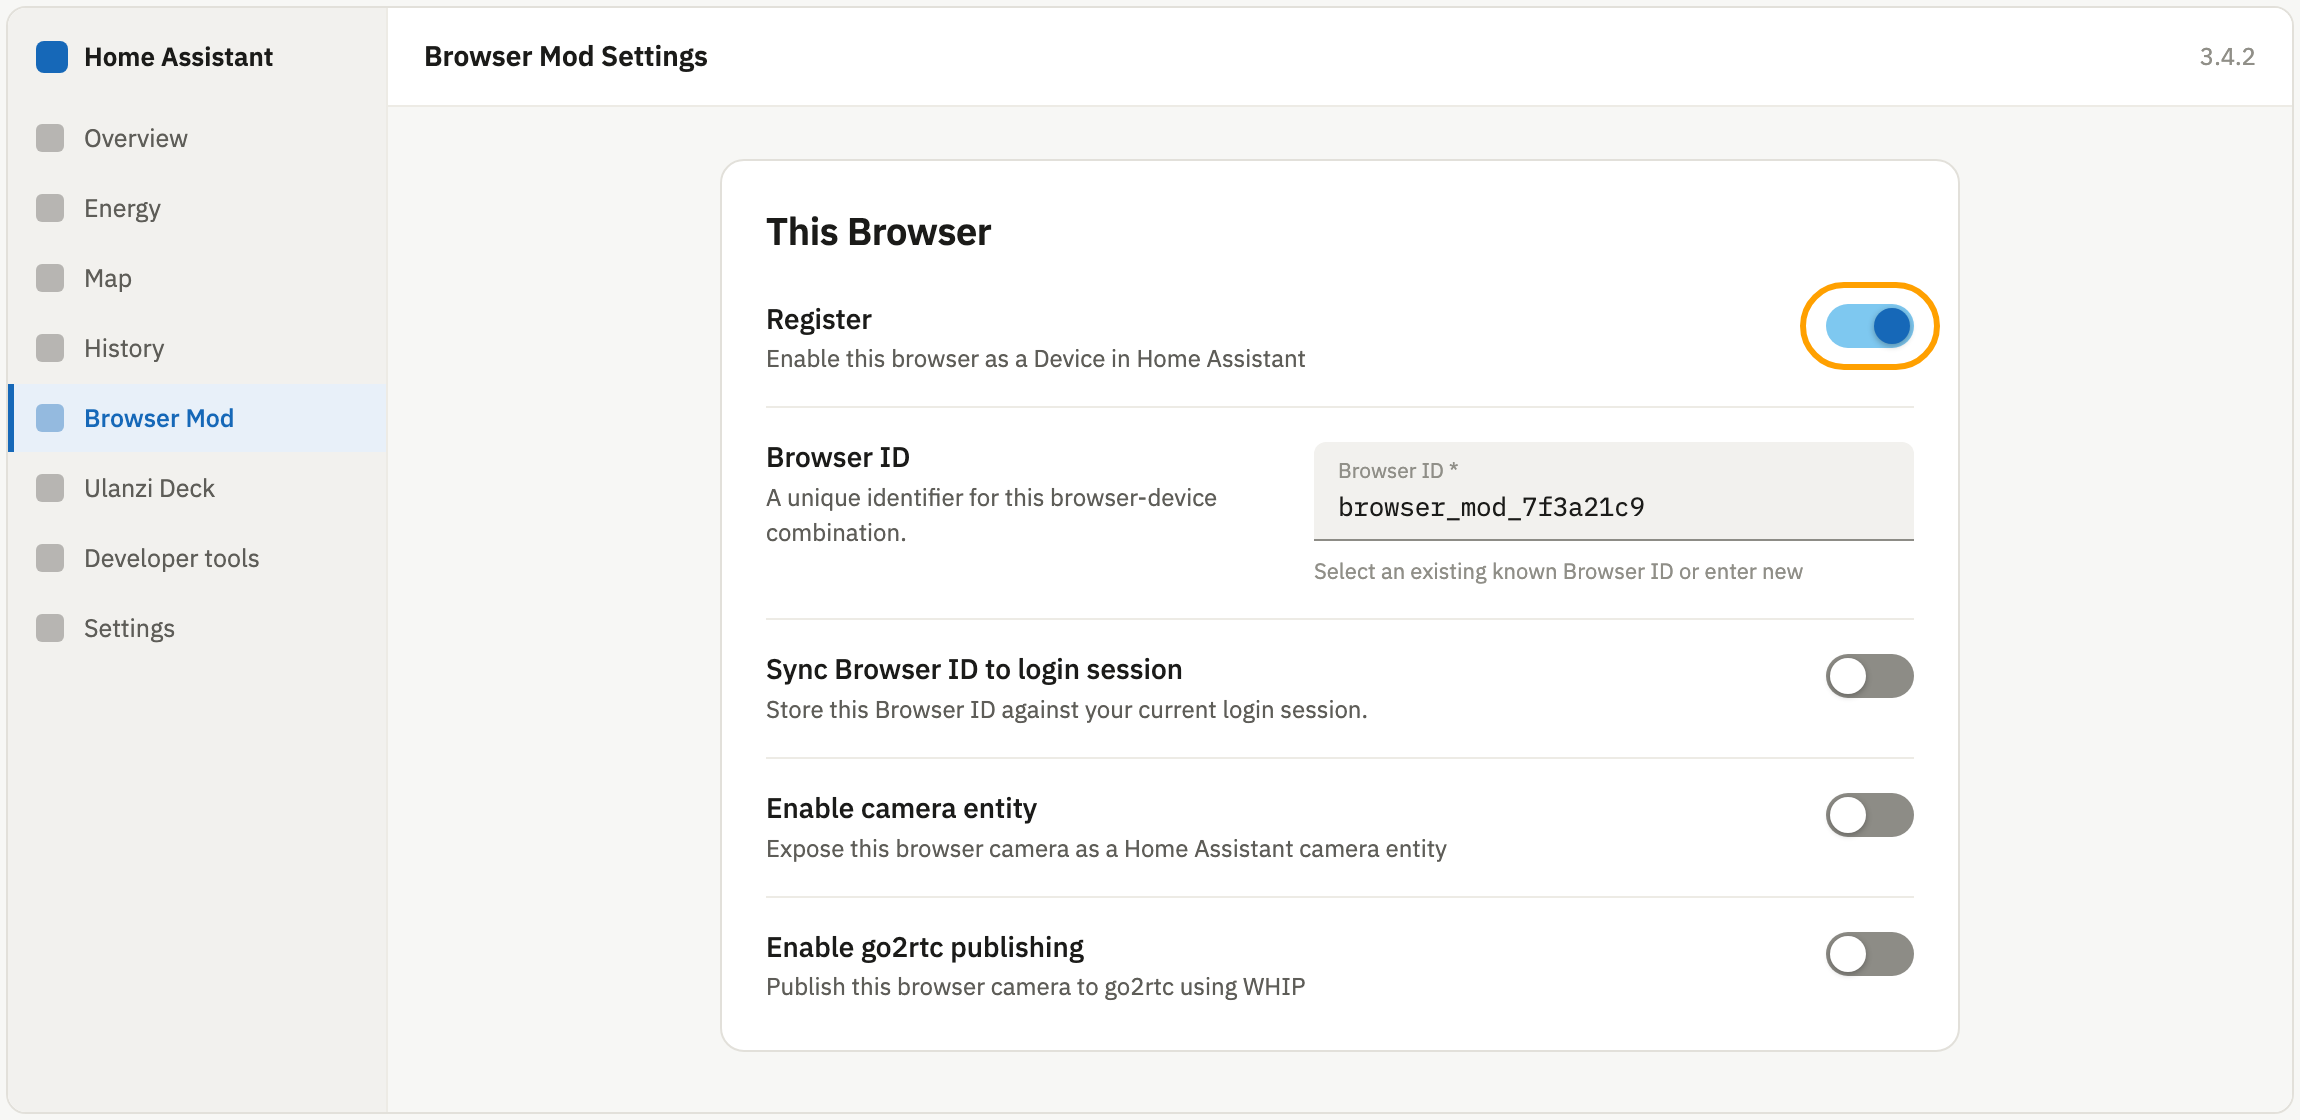
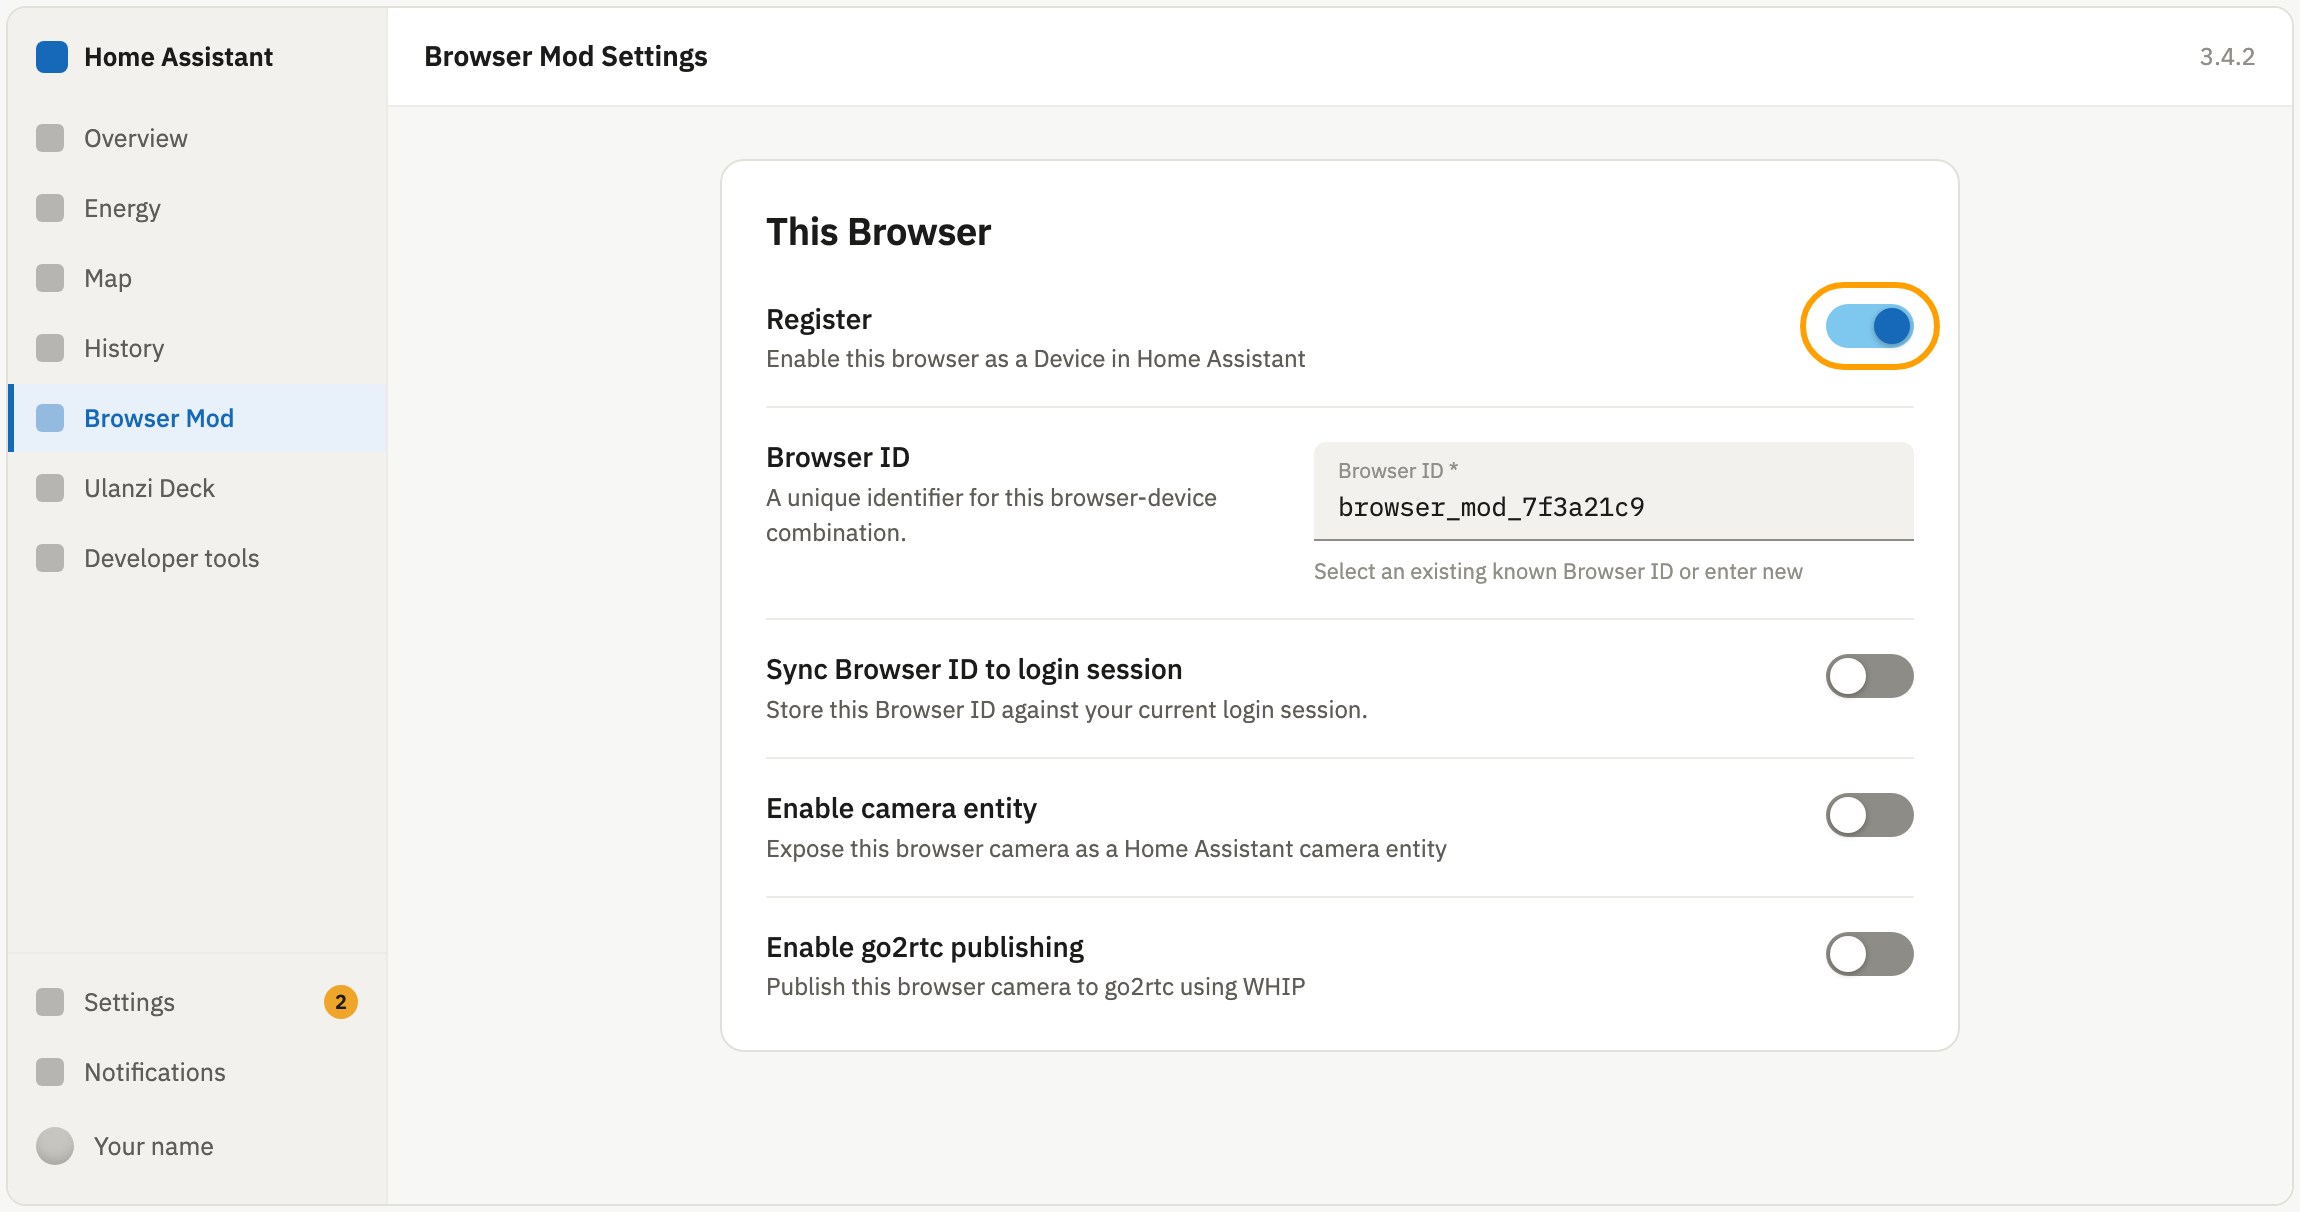
Draw the foot of the sidebar, which is the way in to step 2
Step 2 says to click your own name at the foot of the sidebar, and the
figure under it did not show that foot. The picture had no route into
the screen it was showing.

Both figures now draw the whole sidebar: Settings, Notifications and
your own name pinned at the bottom, with the name highlighted on the
profile figure because that is where you have just come from. The name
is drawn as "Your name" with a blank avatar, since a real one is a real
person.

Both are now the same height, so they sit consistently one after the
other in the guide.

diff --git a/tools/figures/index.html b/tools/figures/index.html
@@ -32,7 +32,8 @@ body{margin:0;background:var(--bg);color:var(--ink);font-family:var(--sans);line
 [hidden]{display:none!important}
 
 /* ---- the drawn Home Assistant, as docs/index.html draws it ---- */
-.ha{border:1px solid var(--line);border-radius:10px;overflow:hidden;background:var(--panel);display:flex}
+.ha{border:1px solid var(--line);border-radius:10px;overflow:hidden;background:var(--panel);
+  display:flex;min-height:600px}
 .ha-rail{flex:0 0 190px;background:var(--sunk);border-right:1px solid var(--hair);
   padding:10px 0;display:flex;flex-direction:column;gap:1px}
 .ha-rail .brand{display:flex;align-items:center;gap:8px;padding:4px 14px 12px;font-size:13px;font-weight:600}
@@ -42,6 +43,18 @@ body{margin:0;background:var(--bg);color:var(--ink);font-family:var(--sans);line
 .ha-rail a u{flex:0 0 auto;width:14px;height:14px;border-radius:3px;background:currentColor;opacity:.4;
   text-decoration:none}
 .ha-rail a.on{color:var(--accent);background:var(--accent-soft);font-weight:500;box-shadow:inset 3px 0 0 var(--accent)}
+/* Settings, Notifications and your own name sit at the foot of the sidebar, and
+   your name is the way in to the profile page step 2 is about. A figure without
+   it leaves no route to the screen it is showing. */
+.ha-rail .spacer{flex:1 1 auto;min-height:20px}
+.ha-rail .foot{display:flex;flex-direction:column;gap:1px;padding-top:7px;
+  border-top:1px solid var(--hair)}
+.ha-rail .badge{margin-left:auto;background:var(--key);color:#1b1b19;font-size:10px;font-weight:600;
+  min-width:17px;height:17px;border-radius:9px;display:grid;place-items:center;padding:0 4px;line-height:1}
+.ha-rail a.me{padding-top:9px;padding-bottom:9px}
+.ha-rail a.me u{width:19px;height:19px;border-radius:50%;opacity:1;background:#c7c5bf;
+  box-shadow:inset 0 -5px 7px -3px rgba(0,0,0,.18)}
+.ha-rail a.me.on u{background:#c7c5bf}
 .ha-view{flex:1;min-width:0;display:flex;flex-direction:column;background:var(--bg)}
 .ha-top{display:flex;align-items:center;gap:12px;padding:13px 18px;background:var(--panel);
   border-bottom:1px solid var(--hair);font-size:14px;font-weight:600}
@@ -92,7 +105,12 @@ body{margin:0;background:var(--bg);color:var(--ink);font-family:var(--sans);line
     <a class="on" href="#"><u></u>Browser Mod</a>
     <a href="#"><u></u>Ulanzi Deck</a>
     <a href="#"><u></u>Developer tools</a>
-    <a href="#"><u></u>Settings</a>
+    <div class="spacer"></div>
+    <div class="foot">
+      <a href="#"><u></u>Settings<span class="badge">2</span></a>
+      <a href="#"><u></u>Notifications</a>
+      <a class="me" href="#"><u></u>Your name</a>
+    </div>
   </nav>
   <div class="ha-view">
     <div class="ha-top"><span>Browser Mod Settings</span><em>3.4.2</em></div>
@@ -138,7 +156,12 @@ body{margin:0;background:var(--bg);color:var(--ink);font-family:var(--sans);line
     <a href="#"><u></u>Browser Mod</a>
     <a href="#"><u></u>Ulanzi Deck</a>
     <a href="#"><u></u>Developer tools</a>
-    <a href="#"><u></u>Settings</a>
+    <div class="spacer"></div>
+    <div class="foot">
+      <a href="#"><u></u>Settings<span class="badge">2</span></a>
+      <a href="#"><u></u>Notifications</a>
+      <a class="me on" href="#"><u></u>Your name</a>
+    </div>
   </nav>
   <div class="ha-view">
     <div class="ha-top"><span class="back"></span><span>This browser</span></div>
